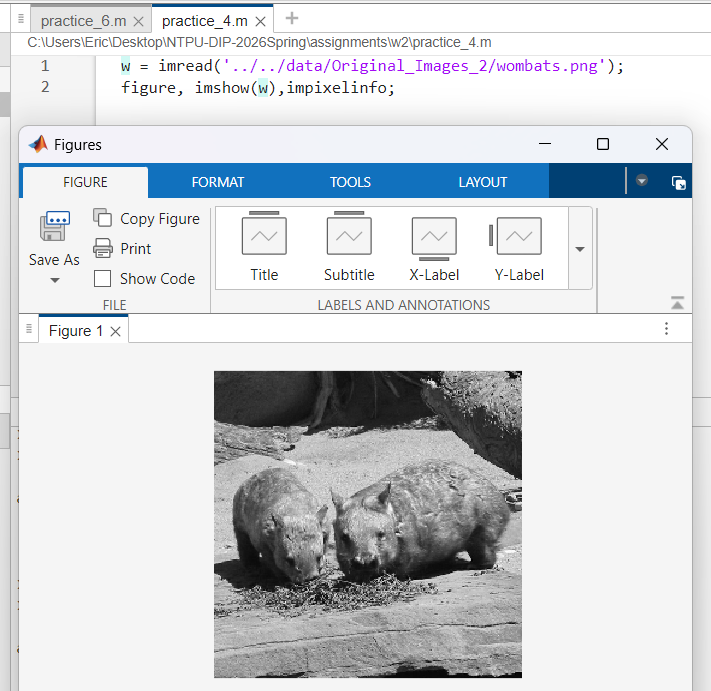
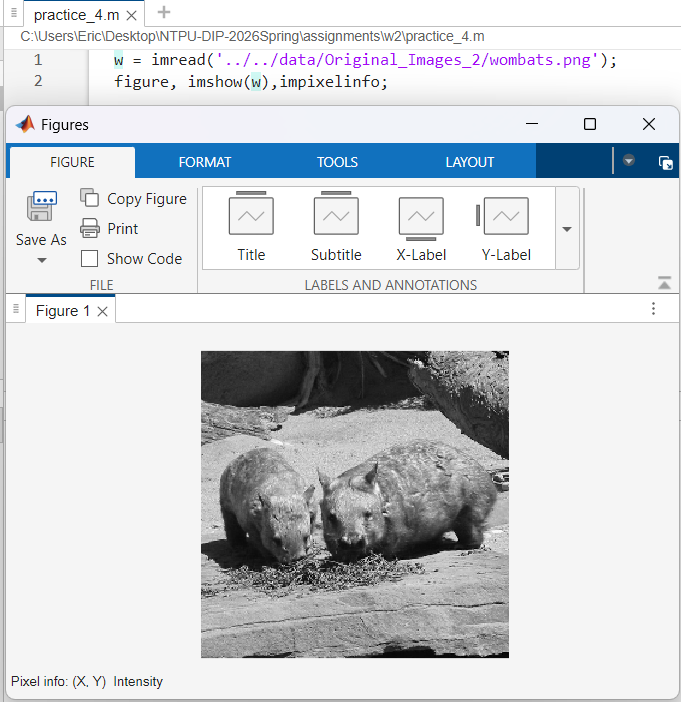
w2 Commit

diff --git a/assignments/w2/practice_6.m b/assignments/w2/practice_6.m
@@ -1,0 +1,14 @@
+[em, emap] = imread('../../data/Original_Images_1/emu.png');
+em2 = imread('../../data/Original_Images_1/emu.png');
+
+figure
+
+subplot(2,1,1);
+imshow(em2);
+title('Original');
+
+subplot(2,1,2);
+imshow(em, emap);
+title('Indexed Image with Colormap');
+
+impixelinfo
